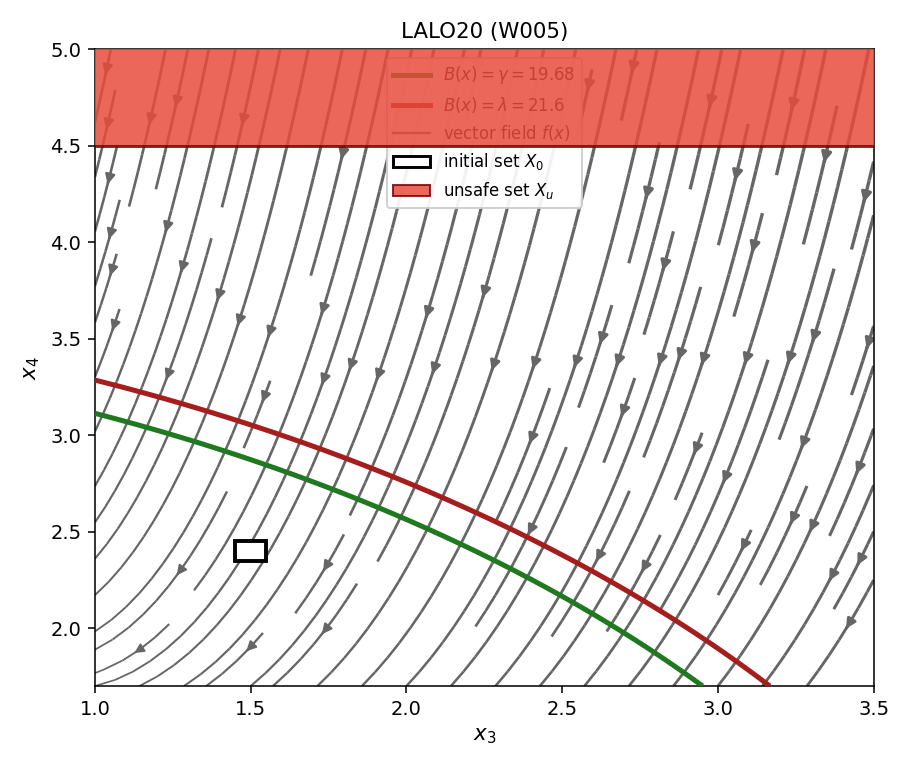
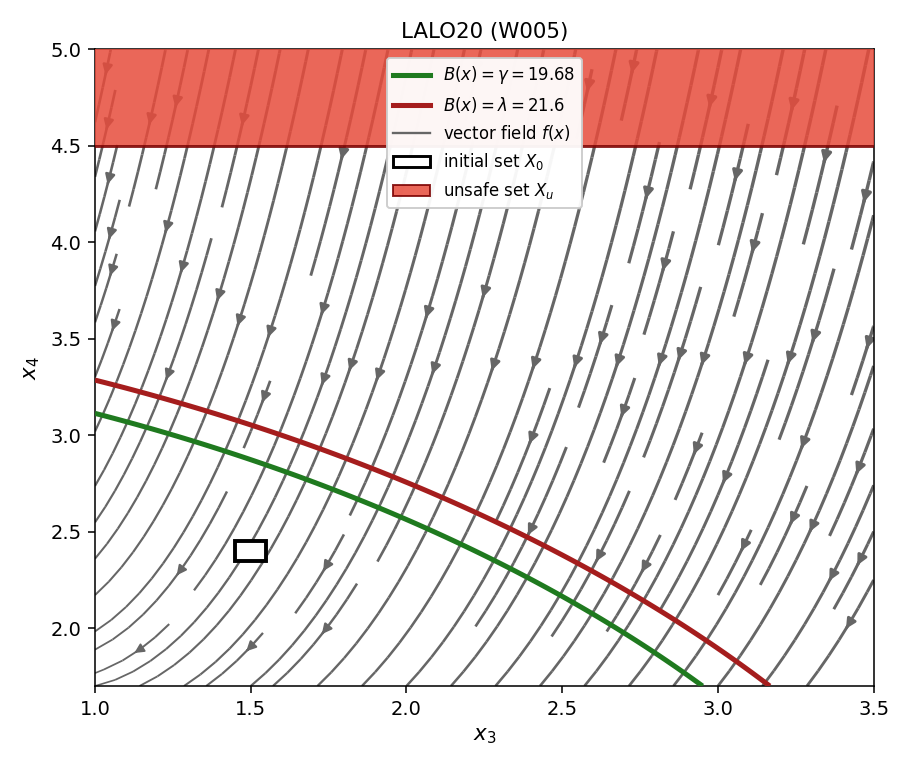
ARCH-COMP NLN: CVDP23 full state space, explicit z-order
* CVDP23_b2 and CVDP23_b_unc now plot the full (x1, y1) state space
  [-3, 3] x [-3, 3] instead of the previous zoomed-in init-set window.
  The coupled van der Pol limit cycle is now visible in the streamlines.

* Explicit z-ordering across all figures (back to front):
    vector field (1) -> unsafe boxes (3) -> initial set (4) ->
    tied-case yellow band (6) -> barrier level-set lines (8) ->
    legend (20).
  Level-set lines now sit on top of the initial/unsafe rectangles
  (previously the rectangles painted over the contour lines).

Changed region(s): [[0.4, 0.0623, 0.6462, 0.2182]]

diff --git a/ex/ARCH-COMP/2026-NLN/render_barrier_figures.py b/ex/ARCH-COMP/2026-NLN/render_barrier_figures.py
@@ -157,7 +157,7 @@ SPECS.append(_spec(
     L_space=_r(-3.0, -3.0, -3.0, -3.0),
     U_space=_r(3.0, 3.0, 3.0, 3.0),
     title='CVDP23 (b=2, fixed-midpoint reduction)',
-    fig_xlim=(0.8, 1.8), fig_ylim=(2.2, 3.0),
+    fig_xlim=(-3.0, 3.0), fig_ylim=(-3.0, 3.0),
     dynamics=make_cvdp_dyn(mu=1.0, b=2.0),
 ))
 
@@ -174,7 +174,7 @@ SPECS.append(_spec(
     L_space=_r(-3.0, -3.0, -3.0, -3.0),
     U_space=_r(3.0, 3.0, 3.0, 3.0),
     title='CVDP23 (b in [1,3] uncertain; vector field at b=2)',
-    fig_xlim=(0.8, 1.8), fig_ylim=(2.2, 3.0),
+    fig_xlim=(-3.0, 3.0), fig_ylim=(-3.0, 3.0),
     dynamics=make_cvdp_dyn(mu=1.0, b=2.0),
 ))
 
@@ -428,19 +428,26 @@ def render_one(spec):
 
     fig, ax = plt.subplots(figsize=(6.5, 5.5))
 
-    # 1) Vector field: streamlines in grey.
+    # Layering (front to back):
+    #   zorder 8 : barrier level-set lines
+    #   zorder 6 : tied-case yellow band (between brackets)
+    #   zorder 4 : initial set
+    #   zorder 3 : unsafe set boxes
+    #   zorder 1 : vector field (streamlines / quiver)
+    # legend is drawn after all of these and naturally sits on top.
+
+    # 1) Vector field: streamlines in grey, at the very back.
     if FX is not None and FY is not None and np.isfinite(FX).any() and np.isfinite(FY).any():
         speed = np.hypot(FX, FY)
         speed_safe = np.where(speed > 0, speed, 1e-9)
-        # Linewidth modulated lightly by log-speed to highlight fast flow.
         lw = 0.8 + 1.0 * (np.log10(speed_safe) - np.log10(speed_safe.min())) / \
              max(np.log10(speed_safe.max()) - np.log10(speed_safe.min()), 1e-6)
         try:
             ax.streamplot(Xs, Ys, FX, FY, color=STREAM_COLOR, density=1.2,
-                          linewidth=lw, arrowsize=1.0)
+                          linewidth=lw, arrowsize=1.0, zorder=1)
         except Exception:
-            # streamplot occasionally fails on degenerate fields; fall back to quiver.
-            ax.quiver(Xs, Ys, FX, FY, color=STREAM_COLOR, alpha=0.6, scale=None)
+            ax.quiver(Xs, Ys, FX, FY, color=STREAM_COLOR, alpha=0.6,
+                      scale=None, zorder=1)
 
     # 2) Barrier level sets gamma and lambda (two dividing lines).
     # SOS validator residuals can push B(x_init) slightly above the reported
@@ -455,35 +462,11 @@ def render_one(spec):
     rel = abs(lam - gamma) / max(abs(gamma), abs(lam), 1.0)
     tied = rel < 0.05
 
-    if not tied:
-        plot_gamma  = max(gamma, B_at_init)
-        plot_lambda = lam
-        cs_g = ax.contour(X, Y, Zb, levels=[plot_gamma],
-                          colors=[GREEN_LINE], linewidths=2.6, zorder=7)
-        cs_l = ax.contour(X, Y, Zb, levels=[plot_lambda],
-                          colors=[RED_LINE], linewidths=2.6, zorder=7)
-    else:
-        # Certificate has gamma ~ lambda: one effective dividing curve.
-        # Draw it at B(init_midpoint) (guaranteed visible) and shade a thin
-        # band around it labelled as the certificate level.
-        band = max(0.01 * (Zmax - Zmin), 1e-3 * abs(B_at_init))
-        # Two contour lines symmetric about B_at_init, but capped to within
-        # the data range so both actually get drawn.
-        lo = max(Zmin + 1e-6, B_at_init - 0.5 * band)
-        hi = min(Zmax - 1e-6, B_at_init + 0.5 * band)
-        # Always include at least the data-min-+ tick so green has something.
-        plot_gamma  = lo if lo > Zmin else B_at_init
-        plot_lambda = hi if hi > plot_gamma else B_at_init + band
-        # Filled band between the two levels for visual cue.
-        ax.contourf(X, Y, Zb, levels=[plot_gamma, plot_lambda],
-                    colors=['#fde2a4'], alpha=0.5, zorder=4)
-        cs_g = ax.contour(X, Y, Zb, levels=[plot_gamma],
-                          colors=[GREEN_LINE], linewidths=2.4, zorder=7)
-        cs_l = ax.contour(X, Y, Zb, levels=[plot_lambda],
-                          colors=[RED_LINE], linewidths=2.4,
-                          linestyles='--', zorder=7)
+    # Note: actual ax.contour() calls below are deferred until *after* the
+    # initial / unsafe rectangles so the level-set lines paint on top of
+    # them (per the requested z-order).
 
-    # 3) Initial set.
+    # 3) Initial set (zorder 4, above unsafe at 3).
     L0, U0 = np.asarray(spec.L_initial, float), np.asarray(spec.U_initial, float)
     w0 = U0[spec.dim_x] - L0[spec.dim_x]
     h0 = U0[spec.dim_y] - L0[spec.dim_y]
@@ -496,7 +479,7 @@ def render_one(spec):
     else:
         y0 = L0[spec.dim_y]
     ax.add_patch(Rectangle((x0, y0), w0, h0, edgecolor=INIT_EDGE,
-                           facecolor=INIT_FILL, linewidth=2.0, zorder=10))
+                           facecolor=INIT_FILL, linewidth=2.0, zorder=4))
 
     # 4) Unsafe boxes. Only draw a box if the slice's orthogonal
     #    coordinates actually fall inside the box: otherwise the box
@@ -520,7 +503,32 @@ def render_one(spec):
             continue
         ax.add_patch(Rectangle((Lu[spec.dim_x], Lu[spec.dim_y]), wu, hu,
                                edgecolor=UNSAFE_EDGE, facecolor=UNSAFE_FILL,
-                               alpha=0.85, linewidth=1.5, zorder=8))
+                               alpha=0.85, linewidth=1.5, zorder=3))
+
+    # 4b) Barrier level-set lines drawn LAST so they paint on top of the
+    # initial and unsafe rectangles.
+    if not tied:
+        plot_gamma  = max(gamma, B_at_init)
+        plot_lambda = lam
+        ax.contour(X, Y, Zb, levels=[plot_gamma],
+                   colors=[GREEN_LINE], linewidths=2.6, zorder=8)
+        ax.contour(X, Y, Zb, levels=[plot_lambda],
+                   colors=[RED_LINE], linewidths=2.6, zorder=8)
+    else:
+        band = max(0.01 * (Zmax - Zmin), 1e-3 * abs(B_at_init))
+        lo = max(Zmin + 1e-6, B_at_init - 0.5 * band)
+        hi = min(Zmax - 1e-6, B_at_init + 0.5 * band)
+        plot_gamma  = lo if lo > Zmin else B_at_init
+        plot_lambda = hi if hi > plot_gamma else B_at_init + band
+        # Yellow band between brackets sits above unsafe (3) and init (4)
+        # but below the contour lines (8) so the bracket lines stay crisp.
+        ax.contourf(X, Y, Zb, levels=[plot_gamma, plot_lambda],
+                    colors=['#fde2a4'], alpha=0.55, zorder=6)
+        ax.contour(X, Y, Zb, levels=[plot_gamma],
+                   colors=[GREEN_LINE], linewidths=2.4, zorder=8)
+        ax.contour(X, Y, Zb, levels=[plot_lambda],
+                   colors=[RED_LINE], linewidths=2.4,
+                   linestyles='--', zorder=8)
 
     # 5) Legend.
     if tied:
@@ -547,8 +555,10 @@ def render_one(spec):
                       edgecolor=UNSAFE_EDGE, alpha=0.85,
                       label=r'unsafe set $X_u$'),
     ]
-    ax.legend(handles=proxies, loc='best', fontsize=8.5, framealpha=0.92,
-              handlelength=2.2)
+    leg = ax.legend(handles=proxies, loc='best', fontsize=8.5,
+                    framealpha=0.95, handlelength=2.2)
+    # Ensure the legend frame sits on top of everything else.
+    leg.set_zorder(20)
 
     ax.set_xlim(xlim); ax.set_ylim(ylim)
     ax.set_xlabel(f'${spec.var_names[spec.dim_x]}$', fontsize=11)
